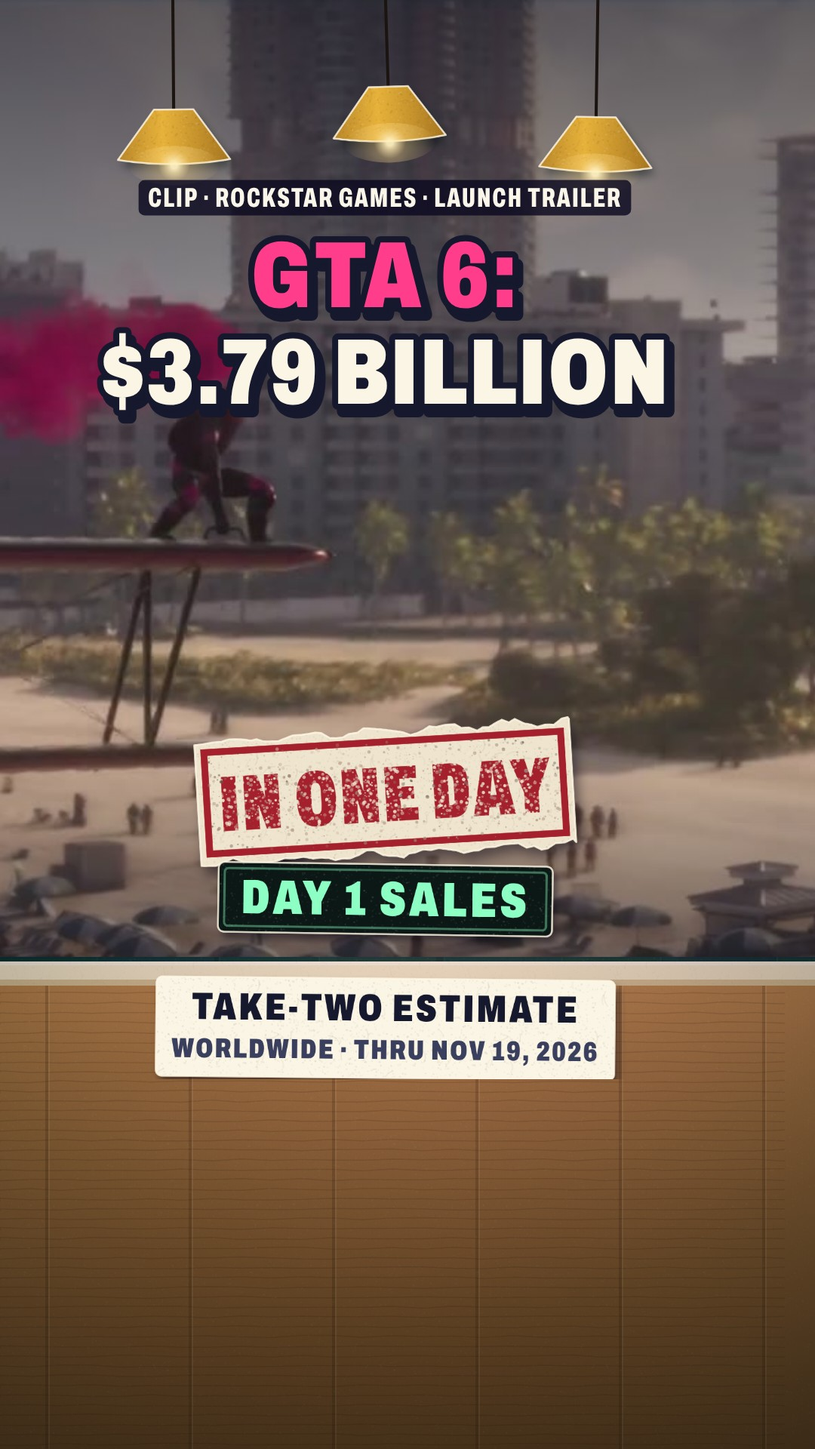
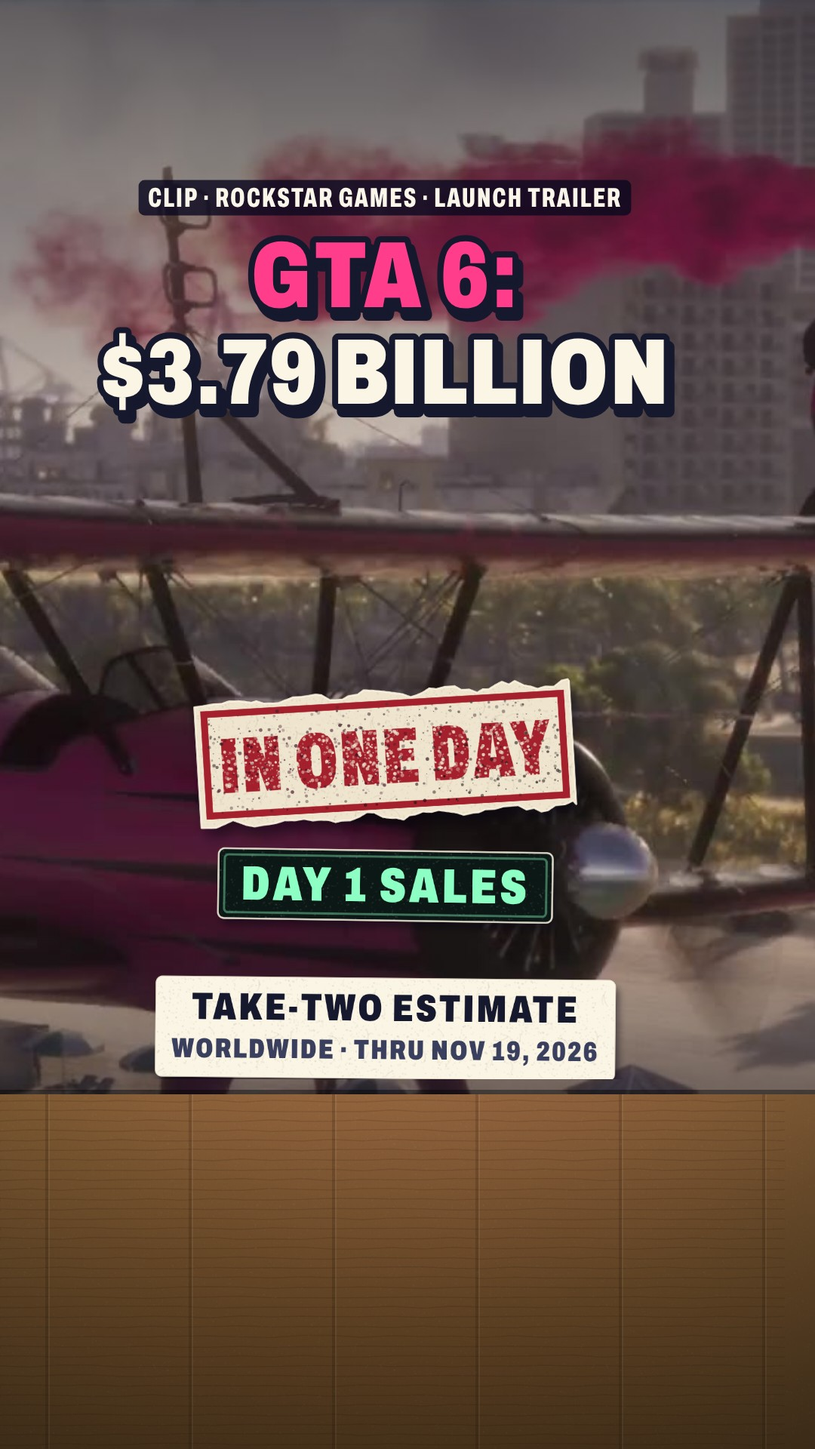
gta-daysales: jury round 2 fixes 1-7 (footage as the subject; voice unchanged)
- Receipts drawn to scale from the counter top at 1 px = $5M: GTA 5
  "$1B+ · 3 DAYS" 200 px, GTA 6 $3.79B 758 px shooting up in 0.6 s with the
  ka-ching and a drawer slam; NOT TO SCALE, PAST $3B, the pile, the day rows
  and the register displays leave the record beat (about five reads).
- Record line: quote plate lifted, counter props at 0.8, two launch-trailer
  clips of 1.65 s (dirt bike, Lucia) holding the wall.
- Footage behind est (marina) and the end question (Jason on the phone);
  $3.79B back on the end register; 56 px chips.
- Frame 0: footage plate covers the counter front to y 1450, lamps lift out
  over footage, plane at 0.75x then the balcony shot; IN ONE DAY at ~1.0 s.
- Blind swishes +10 dB with a slat rattle, ka-ching +7 dB.
Clip lint ok (49 %), bounds ok, readcheck ok, pace OK, Whisper 8/8 WER 0,
-13.8 LUFS, seam diff 1.90.

Claude-Session: https://claude.ai/code/session_0183o4NWx4W2jhhFZUootGpn

diff --git a/film/gta-daysales/film.js b/film/gta-daysales/film.js
@@ -501,7 +501,8 @@
     D.past3 = buildStamp(['PAST $3B'], 110, 232, OXI);
     D.nts = band('NOT TO SCALE', 250, 38, INK, CRM, 2);
     D.quote = chipPiece([['“BIGGEST ENTERTAINMENT', 66, CRM, 2], ['LAUNCH IN HISTORY”', 66, CRM, 2], ['— TAKE-TWO', 44, MUST, 3]], 800, INK, CRM, { lh: 78, pad: 36, ring: 'rgba(231,178,58,.55)' });
-    D.yes = band('YES · DAY ONE', 350, 50, CRM, INK, 2); D.no = band('NOT YET', 350, 50, CRM, INK, 2);
+    D.yes = band('YES · DAY ONE', 380, 56, CRM, INK, 2); D.no = band('NOT YET', 380, 56, CRM, INK, 2);
+    D.g5lab = chipPiece([['$1B+ · 3 DAYS', 48, CRM, 2]], 300, GREYD, CRM, { lh: 54, pad: 20, ring: 'rgba(255,255,255,.3)' });
   }
   function buildBackdrop() {
     var c = mk(W, H), g = c.getContext('2d'), r = mulberry(23);
@@ -623,7 +624,8 @@
      THE PROP LAYER (screen space, clipped to the rail). Beats in story order; later pieces land on top.
      ===================================================================================================== */
   function lamps(g, t) {
-    var nr = NOREC; NOREC = true;
+    var nr = NOREC, lv = wallVis(t); if (lv >= .999) return; NOREC = true;
+    g.save(); g.translate(0, -330 * eio(lv));
     [[230, 150, 0], [510, 120, 1.7], [790, 160, 3.1]].forEach(function (L) {
       var a = .028 * osc(t, 7, L[2]) + .012 * osc(t, 13, L[2] * 2);
       g.save(); g.translate(L[0], 0); g.rotate(a);
@@ -633,7 +635,7 @@
       g.fillStyle = gl; g.beginPath(); g.ellipse(0, L[1] + 74, 60, 26, 0, 0, TAU); g.fill();
       g.restore();
     });
-    NOREC = nr;
+    g.restore(); NOREC = nr;
   }
   function props(g, t) {
     var k, nr;
@@ -645,8 +647,12 @@
       var kg = seg(t, T.gDrop - .3, T.gDrop), fall = (1 - kg * kg) * 1400, go = eio(seg(t, T.endIn, T.endIn + .5));
       nr = NOREC; NOREC = nr || kg < 1 || go > 0;
       g.save(); g.translate(-700 * go, -fall);
-      var gd = t >= T.g1b ? D.g1b : t >= T.g800 ? D.g800 : null, gdk = t >= T.g1b ? kn(t, T.g1b, .1) : kn(t, T.g800, .1);
-      greyReg(g, GX, GS * kn(t, T.gDrop, .02), { disp: gd, dk: gdk, tape: function (q) { rowsUp(q, greyLt(t), 900, GROWS, G_SX, G_SY, G_TW, t); } });
+      var gd = t >= T.days3 ? null : t >= T.g800 ? D.g800 : null, gdk = kn(t, T.g800, .1);
+      greyReg(g, GX, GS * kn(t, T.gDrop, .02) * recS(t), { disp: gd, dk: gdk, tape: function (q) {
+        /* the day-by-day tape tears off when the to-scale receipt takes over (T.days3) */
+        var kt = seg(t, T.days3, T.days3 + .3); if (kt >= 1) return;
+        q.save(); q.globalAlpha *= 1 - kt; q.translate(0, -400 * kt * kt); rowsUp(q, greyLt(t), 900, GROWS, G_SX, G_SY, G_TW, t); q.restore();
+      } });
       g.restore(); NOREC = nr;
     }
     /* ---- ask: the dashed outline of a register to come, with a ? ---- */
@@ -669,11 +675,12 @@
     /* hook and loop: the register rises from behind the counter after the footage, and sinks back for the loop */
     if (rdy > 0) { g.beginPath(); g.rect(0, 0, W, CTOP + 24); g.clip(); }
     if (dim > 0) g.globalAlpha *= 1 - .45 * dim;
-    var dsw = T.ask + .3, dB = t >= dsw && t < T.endIn + .35, fl = Math.sin(TAU * 5 * t / DUR + .7) > .994 ? .4 : 1;
-    pinkReg(g, pr.x, pr.s, { disp: dB ? D.pdB : D.pdA, dk: dB ? kn(t, dsw, .12) : kn(t, T.endIn + .35, .12), da: fl, drawer: drawerAt(t), dy: rdy, plate: fin(t, T.ask + .4, .2) * (1 - seg(t, T.endIn, T.endIn + .2)), tape: function (q, layer) { pinkTape(q, t, layer); } });
+    var dsw = T.ask + .3, dB = t >= dsw, fl = Math.sin(TAU * 5 * t / DUR + .7) > .994 ? .4 : 1;
+    var dOff = t >= T.pour && t < T.endIn + .35;
+    pinkReg(g, pr.x, pr.s * recS(t), { disp: dOff ? null : dB ? D.pdB : D.pdA, dk: dB ? kn(t, dsw, .12) : kn(t, T.endIn + .35, .12), da: fl, drawer: drawerAt(t), dy: rdy, plate: fin(t, T.ask + .4, .2) * (1 - seg(t, T.endIn, T.endIn + .2)), tape: function (q, layer) { pinkTape(q, t, layer); } });
     g.restore();
     NOREC = nr;
-    loops(g, t);
+    strips(g, t);
     /* the torn est receipt flies off (ask) */
     if (t >= T.tear && t < T.tear + .6) {
       var kt = eio(seg(t, T.tear, T.tear + .55)), Lf = pinkLt(T.tear - .001);
@@ -683,18 +690,16 @@
       g.restore(); NOREC = nr;
     }
     /* ---- hook: IN ONE DAY stamp; TAKE-TWO ESTIMATE chip (hook, est) ---- */
-    stampOnP(g, D.oneday, 510, 1050, -.06, T.oneday, T.out1, t);
-    slapOn(g, D.d1s, 510, 1190, .015, T.d1s, T.out1, t);
+    stampOnP(g, D.oneday, 510, 1000, -.06, T.oneday, T.out1, t);
+    slapOn(g, D.d1s, 510, 1172, .015, T.d1s, T.out1, t);
     if (t < T.ask + .5) { slapOn(g, D.est0, 510, 1360, .01, T.est0, T.ask, t); if (t >= T.hl && t < T.ask) hilite(g, 290, 1314, 742, 1356, eo(seg(t, T.hl, T.hl + .35))); }
     /* ---- old: fine print under the grey register ---- */
     if (t < T.endIn + .5) slapOn(g, D.fine5, GX - 8, 1352, -.01, T.fine5, T.endIn, t);
-    slapOn(g, D.days3, 196, 664, -.05, T.days3, T.quote, t);
-    /* ---- fast: the GTA 6 receipt chip; PAST $3B ---- */
-    slapOn(g, D.day1, 790, 712, .03, T.day1, T.endIn, t);
-    stampOnP(g, D.past3, 770, 1334, -.07, T.past3, T.endIn, t);
-    slapOn(g, D.nts, 548, 1200, -.06, T.nts, T.endIn, t);
-    /* ---- rec: the quote plate ---- */
-    slapOn(g, D.quote, 510, 452, -.012, T.quote, T.endIn - .05, t, { tape: true });
+    /* ---- the to-scale receipts (1 px = $5M from the counter top): GTA 5 $1B+ in 3 days = 200 px, GTA 6 $3.79B = 758 px ---- */
+    slapOn(g, D.g5lab, 262, 1008, -.03, T.days3, T.endIn, t);
+    slapOn(g, D.day1, 790, 650, .03, T.day1, T.endIn, t);
+    /* ---- rec: the quote plate (lifted, so the footage holds the wall) ---- */
+    slapOn(g, D.quote, 510, 345, -.012, T.quote, T.endIn - .05, t, { tape: true });
     /* ---- end: equal chips; they peel off before the loop ---- */
     slapOn(g, D.yes, 296, 1368, -.02, T.vote, T.seamL, t, { od: .24 });
     slapOn(g, D.no, 724, 1368, .02, T.vote + .07, T.seamL, t, { od: .24 });
@@ -706,6 +711,7 @@
   function pinkTape(g, t, layer) {
     if (layer === 'back') return;
     if (t < T.pour) { rowsUp(g, pinkLt(t), t < T.tear ? capAt(t) : CAP0, ROWS, P_SX, P_SY, P_TW, t); return; }
+    if (t < T.endIn) return;
     if (t < T.endIn + .6) {
       /* the pour: shoots up out of the slot, folds over the top, runs down the counter front (the loops are drawn in screen space) */
       var u = t - T.pour, yA = -(CTOP - 640) / SMS, yE = (1336 - CTOP) / SMS;
@@ -739,6 +745,31 @@
     if (t < T.rise + .7) return 820 * (1 - cd(t, T.rise, 11));
     if (t >= T.sink) return 820 * eio(seg(t, T.sink, T.sink + .4));
     return 0;
+  }
+  /* counter props shrink to 0.8 on the record line so the launch-trailer run holds the wall */
+  function recS(t) { return 1 - .2 * eio(seg(t, T.rq - .15, T.rq + .25)) * (1 - eio(seg(t, T.endIn, T.endIn + .35))); }
+  var SBASE = CTOP - 8, S5X = 372, S6X = 614, SW = 112, PXM = 5;
+  /* a standing receipt strip: base on the counter top, height h px, print rows scrolling by 'flow' */
+  function strip(g, x, h, flow, seed, col) {
+    if (h <= 1) return;
+    var y0 = SBASE - h;
+    g.save();
+    g.fillStyle = 'rgba(0,10,10,.3)'; g.fillRect(x - SW / 2 + 7, y0 + 8, SW, h);
+    g.beginPath(); var jj = jag(seed, SW, 3); g.moveTo(x - SW / 2, SBASE); g.lineTo(x - SW / 2, y0 + 4); jj.forEach(function (p) { g.lineTo(x - SW / 2 + p[0], y0 + p[1] * .6); }); g.lineTo(x + SW / 2, SBASE); g.closePath();
+    g.fillStyle = PAPERW; g.fill(); g.clip();
+    g.fillStyle = 'rgba(0,0,0,.06)'; g.fillRect(x + SW / 2 - 10, y0, 10, h);
+    g.fillStyle = col || 'rgba(43,43,58,.32)';
+    var step = 26, off = flow % step;
+    for (var y = SBASE - 18 + off; y > y0 + 10; y -= step) { var i = Math.floor((y - off) / step), w1 = 30 + 50 * hash(i * 3 + seed); g.fillRect(x - SW / 2 + 14, y, w1, 7); g.fillRect(x - SW / 2 + 22 + w1, y, Math.max(10, SW - 50 - w1), 7); }
+    g.restore();
+  }
+  function strips(g, t) {
+    var nr = NOREC; NOREC = true;
+    var drop = eio(seg(t, T.endIn, T.endIn + .45));
+    g.save(); g.translate(0, 900 * drop);
+    if (t >= T.days3 && t < T.endIn + .5) strip(g, S5X, (1000 / PXM) * eo(seg(t, T.days3, T.days3 + .3)), 0, 5, 'rgba(63,61,76,.35)');
+    if (t >= T.pour && t < T.endIn + .5) { var u = t - T.pour; strip(g, S6X, (3790 / PXM) * eo(seg(u, 0, .6)), 900 * Math.min(u, .6) + 40 * Math.max(0, u - .6), 11); }
+    g.restore(); NOREC = nr;
   }
   function dimA(t) { return seg(t, T.slowIn, T.slowIn + .3) * (1 - seg(t, T.pour - .1, T.pour + .15)); }
   function stampOnP(g, pc, x, y, rot, tl, tout, t) { slapOn(g, pc, x, y, rot, tl, tout, t, { from: 1.6 }); }
@@ -819,20 +850,26 @@
     var up = w.up ? 1 - eio(seg(t, w.t0, w.t0 + w.up)) : 0, dn = w.dn ? eio(seg(t, w.t1 - w.dn, w.t1)) : 0;
     return WALLB * Math.max(up, dn);
   }
+  /* how much of the wall shows footage (0..1): the lamps lift out of frame while it does */
+  function wallVis(t) { var w = win(t); return w ? 1 - blindY(w, t) / WALLB : 0; }
+  /* hook and loop windows also cover the counter front (frame 0 is the game, down to y 1450) */
+  var HOOKB = 1450;
+  function plateBot(w, t) { if (w.open) return lerp(WALLB, HOOKB, eio(seg(t, w.t0, w.t0 + w.open))); return w.hook ? lerp(HOOKB, WALLB, blindY(w, t) / WALLB) : WALLB; }
   function footage(g, t) {
     var w = win(t); if (!w) return;
     var u = CLIP.active(t); if (!u) return;
-    var ya = blindY(w, t); if (ya >= WALLB - 1) return;
-    g.save(); g.beginPath(); g.rect(0, ya, W, WALLB - ya); g.clip();
+    var ya = blindY(w, t), yb = plateBot(w, t); if (ya >= yb - 1) return;
+    g.save(); g.beginPath(); g.rect(0, ya, W, yb - ya); g.clip();
     if (w.grey) g.filter = 'saturate(.22) contrast(1.06) brightness(.82)';
-    CLIP.draw(g, t, 0, 0, W, WALLB, u);
+    CLIP.draw(g, t, 0, 0, W, w.hook ? HOOKB : WALLB, u);
     g.filter = 'none';
     /* ink falls off the top (headline and captions read on it) and pools at the counter */
     var tg = g.createLinearGradient(0, 0, 0, 760); tg.addColorStop(0, 'rgba(8,10,24,' + (w.hook ? .62 : .5) + ')'); tg.addColorStop(1, 'rgba(8,10,24,0)'); g.fillStyle = tg; g.fillRect(0, 0, W, 760);
-    var bg2 = g.createLinearGradient(0, WALLB - 260, 0, WALLB); bg2.addColorStop(0, 'rgba(8,10,24,0)'); bg2.addColorStop(1, 'rgba(8,10,24,.45)'); g.fillStyle = bg2; g.fillRect(0, WALLB - 260, W, 260);
+    var bg2 = g.createLinearGradient(0, yb - 260, 0, yb); bg2.addColorStop(0, 'rgba(8,10,24,0)'); bg2.addColorStop(1, 'rgba(8,10,24,.45)'); g.fillStyle = bg2; g.fillRect(0, yb - 260, W, 260);
+    if (yb > WALLB + 2) { g.fillStyle = 'rgba(0,0,0,.4)'; g.fillRect(0, yb - 6, W, 6); }
     g.restore();
     /* the blind's bottom rail (only while it moves) */
-    if (ya > 1 && ya < WALLB - 1) {
+    if (ya > 1 && ya < yb - 1) {
       g.fillStyle = 'rgba(0,0,0,.35)'; g.fillRect(0, ya, W, 14);
       g.fillStyle = TEAL2; g.fillRect(0, ya - 22, W, 22); g.fillStyle = 'rgba(200,255,240,.22)'; g.fillRect(0, ya - 22, W, 3);
       g.fillStyle = MUST; rr(g, 498, ya - 6, 24, 40, 6); g.fill();
@@ -842,7 +879,8 @@
     var w = win(t); if (!w) return; var u = CLIP.active(t); if (!u) return;
     var ya = blindY(w, t), a = 1 - seg(ya, 120, 300); if (a <= 0) return;
     var src = CLIP.manifest().sources[CLIP.manifest().clips[u.clip].src];
-    chip(g, ('CLIP · ' + src.credit).toUpperCase(), 510, 262, { px: 36, a: a, bg: 'rgba(11,8,32,.82)', fg: CREAM, shadow: false, wt: 800, ls: 2 });
+    var cr = ('CLIP · ' + src.credit).toUpperCase(); if (w.short) cr = 'CLIP · ROCKSTAR GAMES';
+    chip(g, cr, w.cx || 510, w.cy || 262, { px: 36, a: a, bg: 'rgba(11,8,32,.82)', fg: CREAM, shadow: false, wt: 800, ls: 2 });
   }
 
   var NOISE, POSTERMODE = false;
@@ -874,7 +912,7 @@
     var o = [];
     function Tx(id, text, a, b) { if (t >= a && t < b) o.push({ id: id, text: text, x0: 0, y0: 0, x1: 0, y1: 0 }); }
     Tx('big', 'GTA 6: $3.79 BILLION', 0, T.out1); Tx('big', 'GTA 6: $3.79 BILLION', DUR - .1, DUR + 1);
-    Tx('d1s', 'DAY 1 SALES', T.d1s + .1, T.out1); Tx('dispA', 'DAY 1 SALES', T.rise + .4, T.ask + .3); Tx('dispA', 'DAY 1 SALES', T.endIn + .45, T.sink); Tx('dispB', '$3.79B', T.ask + .4, T.endIn + .35); Tx('nts', 'NOT TO SCALE', T.nts + .1, T.endIn);
+    Tx('d1s', 'DAY 1 SALES', T.d1s + .1, T.out1); Tx('dispA', 'DAY 1 SALES', T.rise + .4, T.ask + .3); Tx('dispB', '$3.79B', T.ask + .4, T.pour); Tx('dispB', '$3.79B', T.endIn + .45, T.sink + .3);
     Tx('oneday', 'IN ONE DAY', T.oneday + .1, T.out1);
     Tx('est0a', 'TAKE-TWO ESTIMATE', T.est0 + .1, T.ask); Tx('est0b', 'WORLDWIDE · THRU NOV 19, 2026', T.est0 + .1, T.ask);
     ROWS.forEach(function (r0, i) { if (r0.text) Tx('row' + i, r0.text, r0.tp + .25, T.tear); });
@@ -882,12 +920,11 @@
     Tx('n6', 'GTA 6', T.ask + .6, T.endIn);
     Tx('y13', 'SEPT 2013', T.y13 + .1, T.slowIn);
     Tx('g5', 'GTA 5', T.gDrop + .1, T.endIn);
-    Tx('g800', '$800M+', T.g800 + .1, T.g1b); Tx('g1b', '$1B+', T.g1b + .1, T.endIn);
+    Tx('g800', '$800M+', T.g800 + .1, T.days3);
     GROWS.forEach(function (r0, i) { if (r0.text) Tx('grow' + i, r0.text, r0.tp + .3, T.endIn); });
     Tx('fine1', 'TAKE-TWO ESTIMATE', T.fine5 + .1, T.endIn); Tx('fine2', 'EXCL. JAPAN & BRAZIL', T.fine5 + .1, T.endIn); Tx('fine3', '2013 DOLLARS', T.fine5 + .1, T.endIn);
-    Tx('days3', '3 DAYS', T.days3 + .1, T.endIn);
+    Tx('g5lab', '$1B+ · 3 DAYS', T.days3 + .1, T.endIn);
     Tx('day1', '1 DAY $3.79B TAKE-TWO ESTIMATE', T.day1 + .1, T.endIn);
-    Tx('past3', 'PAST $3B', T.past3 + .1, T.endIn);
     Tx('quote1', '“BIGGEST ENTERTAINMENT', T.quote + .1, T.endIn - .05); Tx('quote2', 'LAUNCH IN HISTORY”', T.quote + .1, T.endIn - .05); Tx('quote3', '— TAKE-TWO', T.quote + .1, T.endIn - .05);
     Tx('yes', 'YES · DAY ONE', T.vote + .1, T.seamL); Tx('no', 'NOT YET', T.vote + .17, T.seamL);
     return o;
@@ -909,9 +946,15 @@
     T.hookOff = lastw('hook') + .05; T.rise = T.hookOff + .1;
     T.drw = [[T.rise + .32, .8]];
     FW.push({ t0: 0, t1: T.hookOff + .36, up: 0, dn: .36, hook: true });
-    var plen = CLIP.manifest().clips.plane.frames / 30 - .04;
-    CLIP.use('plane', 0, T.hookOff + .36, { from: 0, speed: plen / (T.hookOff + .36), zoom: [1.34, 1.42], focus: [.42, .24], note: 'GTA 6 (Launch Trailer): stunt plane over the Vice beach under GTA 6: $3.79 BILLION, IN ONE DAY stamp, DAY 1 SALES chip' });
-    G('blind0', T.hookOff + .02, 'swish', .2, .7, { m: .03 });
+    var plen = CLIP.manifest().clips.plane.frames / 30 - .04, pcut = plen / .75;
+    CLIP.use('plane', 0, pcut, { from: 0, speed: .75, zoom: [1.17, 1.24], focus: [.42, .24], note: 'GTA 6 (Launch Trailer): stunt plane over the Vice beach under GTA 6: $3.79 BILLION, IN ONE DAY stamp, DAY 1 SALES chip' });
+    CLIP.use('balcony', pcut, T.hookOff + .36, { from: .15, speed: 1, zoom: [1.04, 1.08], focus: [.45, .4], note: 'GTA 6 (Launch Trailer): Jason and Lucia on the balcony under "One day." as the blind comes down' });
+    /* est: a GTA 6 shot behind the receipt print (the marina from the air) */
+    var e0 = start('est') + .35, e1 = e0 + 1.45;
+    FW.push({ t0: e0, t1: e1, up: .3, dn: .3 });
+    CLIP.use('marina', e0, e1, { from: 0, speed: (CLIP.manifest().clips.marina.frames / 30 - .05) / (e1 - e0), zoom: [1.06, 1.12], focus: [.5, .3], note: 'GTA 6 (Launch Trailer) behind the DAY ONE / RETAIL SALES receipt and the TAKE-TWO ESTIMATE card' });
+    G('blind0u', e0, 'swish', .25, .9, { m: .03 }); G('blind0d', e1 - .3, 'swish', .3, .8, { m: .03 });
+    G('blind0', T.hookOff + .02, 'swish', .2, 1, { m: .03 });
     EV.push({ t: T.oneday, type: 'ching', g: 1.3, id: 'ching1' });
     T.out1 = G('out1', T.ching0 + .45, 'swish', .3, .9, { m: .05 });
     /* est: the receipt prints its header as the words land */
@@ -935,7 +978,7 @@
     T.y13 = G('y13', at('old', '2013') + .05, 'slap', .3, 1.1, { m: .04 }); T.y13 = at('old', '2013') + .02;
     T.gDrop = G('gdrop', wend('old', '2013') + .1, 'thock', .3, 1.3, { m: .04 }); T.gDrop = Math.min(T.gDrop, at('old', 'gta'));
     /* the 2013 side on the wall (desaturated): GTA V's own trailer, Michael and Franklin at the pool */
-    var o0 = vadEndBefore(start('old'), lastw('ask')) + .03, o1 = at('old', 'made') - .5;
+    var o0 = vadEndBefore(start('old'), lastw('ask')) + .03, o1 = o0 + 1.48;
     FW.push({ t0: o0, t1: o1, up: .32, dn: .3, grey: true });
     CLIP.use('michael', o0, o1, { from: 0, speed: (CLIP.manifest().clips.michael.frames / 30 - .05) / (o1 - o0), zoom: [1.02, 1.1], focus: [.66, .45], note: 'GTA 5 (2013 trailer), greyed: SEPT 2013 card slams, the grey GTA 5 register drops in front of it' });
     G('blind1', o0, 'swish', .2, .6, { m: .03 }); G('blind1d', o1 - .3, 'swish', .25, .5, { m: .03 });
@@ -948,13 +991,12 @@
     G('gp1', after('old'), 'print', .4, .8, { dur: .22 });
     /* slow: the pink side dims; DAY 2 (no number: unknown); DAY 3; TOTAL $1B+ with the display on "days" */
     T.slowIn = start('slow') - .15;
-    var s0 = start('slow') - .3, s1 = at('slow', 'three') + .02;
+    var s0 = start('slow') - .3, s1 = s0 + 1.5;
     FW.push({ t0: s0, t1: s1, up: .32, dn: .3, grey: true });
-    CLIP.use('street', s0, s1, { from: 0, speed: (CLIP.manifest().clips.street.frames / 30 - .05) / (s1 - s0), zoom: [1.0, 1.08], focus: [.5, .45], note: 'GTA 5 (2013 trailer), greyed and slowed: the slow side while DAY 2 and DAY 3 print on the grey tape' });
+    CLIP.use('street', s0, s1, { from: 0, speed: (CLIP.manifest().clips.street.frames / 30 - .05) / (s1 - s0), zoom: [1.0, 1.08], focus: [.5, .45], note: 'GTA 5 (2013 trailer), greyed and slowed: the slow side under BUT GTA 5 HIT ONE BILLION while the grey tape ticks day by day' });
     G('blind2', s0, 'swish', .25, .6, { m: .03 }); G('blind2d', s1 - .3, 'swish', .25, .5, { m: .03 });
-    gfeed(at('slow', 'hit') - .02, 34, '-', 0, .25); gfeed(at('slow', 'hit') + .08, 70, 'DAY 2', 56, .3);
-    gfeed(at('slow', 'three') - .1, 34, '-', 0, .25); gfeed(at('slow', 'three'), 70, 'DAY 3', 56, .3);
-    gfeed(at('slow', 'days') - .02, 76, 'TOTAL $1B+', 56, .3);
+    gfeed(at('slow', 'hit') - .02, 34, '-', 0, .25); gfeed(at('slow', 'hit') + .08, 70, '-', 0, .3);
+    gfeed(at('slow', 'three') - .1, 34, '-', 0, .25); gfeed(at('slow', 'three'), 70, '-', 0, .3);
     T.days3 = G('days3', after('slow') - .05, 'stamp', .35, 1.1, { m: .05 }); T.g1b = T.days3;
     EV.push({ t: T.g800, type: 'slap', g: .9, id: 'g800' });
     EV.push({ t: at('slow', 'hit') + .08, type: 'print', g: .7, dur: .14, id: 'pd2' }); EV.push({ t: at('slow', 'three'), type: 'print', g: .7, dur: .14, id: 'pd3' });
@@ -962,21 +1004,20 @@
     T.pour = G('pour', start('fast') - .25, 'tear', .35, 1, { m: .04 });
     T.drw.push([T.pour, 1.0]);
     EV.push({ t: T.pour + .04, type: 'pour', g: .6, dur: 1.15, id: 'chatter' });
-    T.nts = T.pour + 1.3;
     T.day1 = at('fast', 'single') - .02;
-    T.past3 = G('past3', after('fast') + .02, 'stamp', .35, 1.1, { m: .05 });
-    EV.push({ t: T.past3, type: 'ching', g: 1.1, id: 'ching6' });
+    EV.push({ t: T.pour + .02, type: 'ching', g: 1.2, id: 'ching6' });
+    EV.push({ t: T.pour + .58, type: 'slam', g: 1, id: 'slam6' });
     /* rec: the quote plate drops (captions off; the plate is the line) */
     T.quote = G('quote', start('rec') - .4, 'slap', .3, 1.2, { m: .04 }); T.quote = Math.min(T.quote, start('rec') - .3);
     /* end: everything drops away; the pink register returns to the frame-0 place; YES / NOT YET (equal) */
     T.endIn = G('endIn', after('rec') - .05, 'tear', .3, 1, { m: .04 });
     /* the record line over a fast run of four launch-trailer shots, behind the pour and the quote plate */
-    var r0 = T.quote - .08, r1 = Math.min(r0 + 4.4, T.endIn + .08), rs = [['car', .05, [.4, .45], 'Lucia in the convertible', [1.2, 1.26]], ['bike', .25, [.55, .38], 'the dirt-bike jump over the tracks', [1.4, 1.46]], ['marina', .1, [.5, .5], 'the marina from the air', [1.1, 1.16]], ['balcony', .05, [.51, .4], 'Jason and Lucia on the balcony at sunset', [1.3, 1.36]]];
+    var r0 = T.quote - .08, r1 = Math.min(r0 + 3.3, T.endIn - .1), rs = [['bike', .1, [.53, .3], 'the dirt-bike jump over the tracks', [1.35, 1.42]], ['car', 0, [.395, .3], 'Lucia in the convertible', [1.2, 1.26]]];
     T.rq = r0;
-    FW.push({ t0: r0, t1: r1, up: .3, dn: .3 });
+    FW.push({ t0: r0, t1: r1, up: .3, dn: .3, cx: 275, cy: 556, short: true });
     rs.forEach(function (c, i) {
-      var a = lerp(r0, r1, i / 4), b = lerp(r0, r1, (i + 1) / 4);
-      CLIP.use(c[0], a, b, { from: c[1], speed: 1, zoom: c[4], focus: c[2], note: 'GTA 6 (Launch Trailer) run under the quote plate "BIGGEST ENTERTAINMENT LAUNCH IN HISTORY" · TAKE-TWO: ' + c[3] });
+      var a = lerp(r0, r1, i / 2), b = lerp(r0, r1, (i + 1) / 2), cl = CLIP.manifest().clips[c[0]].frames / 30 - .05 - c[1];
+      CLIP.use(c[0], a, b, { from: c[1], speed: Math.min(1, cl / (b - a)), zoom: c[4], focus: c[2], note: 'GTA 6 (Launch Trailer) run under the quote plate "BIGGEST ENTERTAINMENT LAUNCH IN HISTORY" · TAKE-TWO: ' + c[3] });
       if (i) G('cut' + i, a, 'tick', .12, .6, { m: .02 });
     });
     G('blind3', r0, 'swish', .2, .6, { m: .03 });
@@ -986,8 +1027,13 @@
     G('seam', DUR - .06, 'thock', .25, .8);
     /* loop: the register sinks, the blind goes up on frame 0's plane (held on its first frame) */
     T.sink = wend('end', 'one') + .06;
-    FW.push({ t0: T.sink, t1: DUR + .001, up: .4, dn: 0, hook: true });
-    CLIP.use('plane', T.sink, DUR + .001, { from: 0, freeze: 0, zoom: [1.3, 1.34], focus: [.42, .24], note: 'loop: the blind rises on the frame-0 plane shot as GTA 6: $3.79 BILLION drops back in' });
+    /* end: Jason on the phone behind the question, then the blind and the plate open to the frame-0 plane */
+    var q0 = r1 + .42;
+    FW.push({ t0: q0, t1: T.sink, up: .3, dn: 0 });
+    CLIP.use('phone', q0, T.sink, { from: 0, speed: 1, zoom: [1.1, 1.14], focus: [.57, .2], note: 'GTA 6 (Launch Trailer): Jason on the phone behind DID YOU BUY IT ON DAY ONE? and the YES · DAY ONE / NOT YET chips' });
+    G('blindq', q0, 'swish', .3, .8, { m: .03 });
+    FW.push({ t0: T.sink, t1: DUR + .001, up: 0, dn: 0, hook: true, open: .4 });
+    CLIP.use('plane', T.sink, DUR + .001, { from: 0, freeze: 0, zoom: [1.13, 1.17], focus: [.42, .24], note: 'loop: the blind rises on the frame-0 plane shot as GTA 6: $3.79 BILLION drops back in' });
     G('blind4', T.sink + .02, 'swish', .25, .6, { m: .03 });
     STRESS = [['est', 'day'], ['est', 'estimate'], ['ask', 'lot'], ['old', '2013'], ['old', '800'], ['slow', 'billion'], ['slow', 'three'], ['fast', 'three'], ['fast', 'single'], ['end', 'buy'], ['end', 'day']].map(function (p) { return at(p[0], p[1]); });
     EV.sort(function (a, b) { return a.t - b.t; });
@@ -1034,10 +1080,12 @@
     /* thermal printer: a fast train of head ticks over a thin feed buzz */
     function printer(t, g, dur) { dur = dur || .25; for (var u = 0; u < dur; u += .018) tick(t + u, (.55 + .3 * rnd()) * g, 3800 + 600 * rnd()); nband(t, t + dur, 2600, 2900, .05 * g, .04 * g, 3); }
     function tear(t, g) { nband(t, t + .16, 1600, 4800, .3 * g, .05 * g, .8); for (var j = 0; j < 6; j++) tick(t + j * .02, (1 - j * .1) * g, 2600 + j * 200); }
-    function swish(t, g) { nband(t, t + .2, 900, 3600, .2 * g, .03 * g, .8); }
-    var LEVEL = { stamp: 1, ching: 2.4, thock: 5, slap: 3, pin: 4, tick: 6, print: 4, tear: 3, pour: 3, swish: 3 };
+    function swish(t, g) { nband(t, t + .2, 900, 3600, .2 * g, .03 * g, .8); for (var j = 0; j < 5; j++) tick(t + .03 + j * .035, (.5 - j * .06) * g, 1500 + j * 150); }
+    /* the cash drawer slamming home: a low thump with a metal clack */
+    function slam(t, g) { thump(t, .7 * g, 120); boom(t, .4 * g, 95, 45, .22); tick(t, 1.3 * g, 2200); nband(t, t + .06, 1800, 900, .2 * g, .02 * g, 1.2); }
+    var LEVEL = { slam: 3, stamp: 1, ching: 2.4, thock: 5, slap: 3, pin: 4, tick: 6, print: 4, tear: 3, pour: 3, swish: 3 };
     var TRIM = window.SFX_TRIM || {};
-    var TYPE_DB = window.SFX_TYPE_DB || { stamp: -12, ching: -12, thock: -18, slap: -14, pin: -14, tick: -18, print: -18, tear: -15, pour: -20, swish: -16 };
+    var TYPE_DB = window.SFX_TYPE_DB || { slam: -6, stamp: -12, ching: -5, thock: -18, slap: -14, pin: -14, tick: -18, print: -18, tear: -15, pour: -20, swish: -6 };
     EV.forEach(function (e) {
       var g = (e.g == null ? 1 : e.g) * (LEVEL[e.type] || 1) * Math.pow(10, ((TRIM[e.id] || 0) + (TYPE_DB[e.type] || 0)) / 20);
       if (e.type === 'stamp') stamp(e.t, g);
@@ -1050,6 +1098,7 @@
       else if (e.type === 'pour') printer(e.t, g, e.dur);
       else if (e.type === 'tear') tear(e.t, g);
       else if (e.type === 'swish') swish(e.t, g);
+      else if (e.type === 'slam') slam(e.t, g);
     });
     /* no music: Isac adds a platform sound; the film ships voice + sound effects */
     var MUSIC = false;

diff --git a/film/gta-daysales/JURY.md b/film/gta-daysales/JURY.md
@@ -40,3 +40,39 @@ Previous Delta number Short (gta-streampeak) scored r1 7.06 / Truth 8.5. This on
 - The caption strips are torn-paper labels with one highlighted word, the same caption system as every other Delta film. That is fine, but with no tape spill the film reads as "two icons plus captions".
 - Symmetric triple pendant lamps on every frame: decoration with no job.
 - The `PAST $3B` grunge rubber stamp is the house stamp from gta-99 and gta-streampeak. A third film in a row with the same stamp texture is starting to feel like a template.
+
+## Round 2 (footage remake)
+Fresh jury, 2026-11-21. Scored without reading earlier rounds. Video: `out/gta-daysales-vo.mp4` (27.4 s, 1080x1920). pacecheck OK (motion 0-1 s 1.03, 0-3 s 1.57, no frozen stretches, 0 hard cuts). -13.9 LUFS integrated, true peak -2.7 dBFS, no black frames. Whisper heard every line with WER 0.00.
+
+**Sources re-read today.** Take-Two IR page (fetched, 395 KB): "day one retail sales* reached $3.79 billion … biggest entertainment launch in history", footnote "*based on company estimates through end of day November 19th worldwide". SEC 8-K Ex 99.1, 18 Sept 2013: "$800 Million Worldwide During First Day" (excluding Japan and Brazil). SEC 8-K Ex 99.1, 20 Sept 2013: "more than $1 billion during its first three days on sale, according to Company estimates". All match the script and the screen labels.
+
+**SAFE-EDIT checklist.** Every clip is under 5 s, muted, and credited on screen (`CLIP · ROCKSTAR GAMES · …`). Footage is about 44 % of the runtime. No rumour, leak or ending, no trailer music, no logo or key-art frames, and every number is sourced. Clean.
+**Hook rule.** Frame 0 shows `GTA 6: $3.79 BILLION` (4 words) over the Launch Trailer stunt plane. The `IN ONE DAY` stamp and the `TAKE-TWO ESTIMATE` card are on screen by 2.0 s but not at 1.0 s. Passes, so no cap.
+
+| Criterion | Score | Why |
+|---|---|---|
+| Hook | 7.0 | It has a real GTA 6 shot, a 4-word number and pink smoke behind the type, and it moves (1.57). Against it: the slowed 0.54x footage is soft. The lamps hang over the video. The bottom 40 % of frame 0 (y 1270-1920) is bare wooden counter. The payoff stamp sits low at y ~1050, after 1.0 s. |
+| Retention | 7.0 | There is no frozen stretch, and the new beats (2013 at 8.7, 3 DAYS at 14.5, the pour at 18, the montage at 21.4) land every 3-5 s. But 3.3-8.7 s is 5.4 s of teal wall with a receipt printing. It is the longest stretch without footage, it falls right after the hook, and nothing new happens on screen in it apart from the ? at 7.5. |
+| Clarity | 6.5 | The idea is plain: 3.79B in one day against GTA 5's 1B in three. But 20-25 s stacks about 15 labels at once: 3 DAYS, DAY1/$800M+/DAY2/DAY3/TOTAL $1B+, $1B+, GTA 5, NOT TO SCALE, 1 DAY $3.79B TAKE-TWO ESTIMATE, the $3.79B display, GTA6, PAST $3B, the fine-print card, the quote plate and the clip credit. That is not one read at a time. $3.79B appears twice side by side. |
+| Truth | 9.0 | Every claim is attributed and matches the primary sources. "Over", "$800M+", "$1B+", "EXCL. JAPAN & BRAZIL", "2013 DOLLARS" and the quote marks are all present. Two small nits: "a single day" in the voice is tighter than the release's window ("through end of day Nov 19 worldwide"), which the screen card does show; and the bars are drawn NOT TO SCALE (labelled, so honest). |
+| Motion and design craft | 6.0 | The cut-paper register set is likeable and the roller-blind transitions are a good idea. Against it: the counter front y 1270-1430 is empty on the hook (0-1.5 s) and the end (25-26.6 s), a repeat of LESSONS "leave y 1000-1430 empty" (-1). The 21.4-24.9 montage is almost entirely covered by the collage, so four good clips read as noise. The lamps sit on top of the footage. The end register shows `DAY 1 SALES`, not the number. |
+| Voice and sound | 7.0 | The hook is in the first words, the pace is tight, there is no music, and Whisper is clean. Hits are there, but the blind swish in the 3.2 s gap peaks at -19 dBFS (LESSONS: Delta hits should reach about -10). The register ka-ching does not stand out. |
+| Loop and ending | 8.0 | The last frame is frame 0 (plane plus headline), and "…on day one?" runs into "GTA 6. $3.79 billion. One day." Strong. Docked because the end beat (25-26.6 s) is the plainest frame in the film. |
+| Shareability | 6.0 | The DM image was meant to be the receipt that pours off the counter. The tape is only about 1.3x the height of the GTA 5 receipt, tagged NOT TO SCALE, and piles neatly on the counter, so the frame argues against its own number. |
+
+**Overall 7.0** (56.5 / 8 = 7.06, not rounded up). **Truth 9.0. PASS the gate (7.0+, Truth 8.5+), but only just: fix then post.** That is below the last two Delta passes (7.1 and 7.2).
+
+### Fixes, ranked by impact
+1. **Wow: 18.0-21.4 s, the pour. Draw it to scale and drop NOT TO SCALE.** Use 1 px = $5M. The GTA 5 day-one receipt becomes 160 px, the GTA 5 three-day total ($1B+) 200 px, and the GTA 6 tape 758 px. Shoot it up from the counter (y 1270) to about y 510, past the caption, in 0.6 s with the ka-ching at -10 dBFS, then hold 0.7 s. Label the GTA 5 receipt `$1B+ · 3 DAYS` (a floor, so the ratio is honest at most). That is the frame people will send.
+2. **20.5-25 s, too many labels. Cut to five reads.** Remove the DAY1/DAY2/DAY3 lines once the `3 DAYS` chip is up. Remove the register's `$3.79B` display (the `1 DAY $3.79B` tag carries it). Remove `PAST $3B` (the voice already says it at 18.6). Shrink the fine-print card to 0 opacity once the quote plate lands, and put it back for the last 0.3 s, or keep it at 36 px and move it under the GTA 5 register only.
+3. **21.4-24.9 s, the hidden montage.** Lift the quote plate to y 200-420 and push the counter props down and smaller (0.8 scale) for these 3.5 s, so the car, bike, marina and balcony shots show at least 60 % of the wall. Otherwise drop the montage to two clips at 1.7 s each.
+4. **3.3-8.7 s, the dead middle.** Bring a GTA 6 clip back behind the `est` receipt print, for example 1.5 s of the car clip at 4.5-6.0 s behind a half-raised blind. Or punch the receipt 1.0 to 1.08 on "own estimate" at 5.9 s. Nothing more than 3 s should go by without footage or a new object.
+5. **0.0-1.5 s, frame 0.** Fill y 1270-1430. Bring the `IN ONE DAY` stamp in at 0.9 s (now about 1.5 s) and set it on the counter edge at y 1300, not over the beach. Hide the three lamps while the wall shows footage (they cut the skyline at y 60-110 on frame 0). Run the plane at 0.75x, not 0.54x, so it stays sharp.
+6. **25.0-26.6 s, end beat.** Keep footage behind the question, for example the balcony clip at 50 % behind the blind. Put `$3.79B` back on the register display (it now says `DAY 1 SALES`), as the brief planned. Bring the chips up to 48 px.
+7. **Sound.** Lift the blind swishes and the hook ka-ching to about -10 dBFS in voice gaps (now -19 at 3.2 s). Add a drawer slam at 18.6 s on "single day".
+8. **Voice wording (optional Truth polish).** Change "in a single day" (`fast`) to "on day one", so the voice matches the release's own term and the `DAY 1` labels. That needs a re-voice of one line, so it is not a blocker.
+
+### Generic or AI-made tells
+- The same three hanging lamps and centred register on every beat make it look like a template. The set never changes angle or scale.
+- Ransom-note tape captions on every line mirror the voice word for word. That works sound-off, but it is the house default, not a choice made for this film.
+- The footage reads as wallpaper behind a cardboard set, not as the subject. The best Delta frames are the ones where the game shot holds the wall alone (0-1.5 s, 27 s).

diff --git a/film/gta-daysales/BRIEF.md b/film/gta-daysales/BRIEF.md
@@ -94,16 +94,18 @@ Why: Isac (2026-11-21) said the first cut ignored what Delta has learned. `delta
 
 | Clip | Source (cache key, verdict) | Source in-out (s) | On screen (s) | What our graphics say over it |
 |---|---|---|---|---|
-| plane | GTA VI Launch Trailer, Rockstar Games' X post x.com/RockstarGames/status/2110717537964953810 (`twitter-2110704990339678208`, OFFICIAL: uploader_id RockstarGames) | 54.52-56.30 | 0.00-3.29 (slowed 0.54x) and 26.69-27.40 (held on its first frame, the loop) | frame 0: `GTA 6: $3.79 BILLION`, `IN ONE DAY` stamp, `DAY 1 SALES`, `TAKE-TWO ESTIMATE` |
-| michael | GTA V Official Trailer (2013), Rockstar's CDN videos-rockstargames-com.akamaized.net/v4/a8k183c8 (`generic-v4-a8k183c8-flv-en-us-720p-mp4`, OFFICIAL: Rockstar host) | 7.76-9.32 | ≈8.72-11.01, greyed | `SEPT 2013` card, the grey GTA 5 register drops in front, caption "In 2013, GTA 5 made over $800 million" |
-| street | same GTA V trailer | 46.86-48.40 | ≈14.45-16.71, greyed and slowed | "But GTA 5 hit one billion in three days", DAY 2 / DAY 3 print on the grey tape |
-| car | GTA VI Launch Trailer (as above) | 25.74-27.06 | ≈21.37-22.24 | quote plate `"BIGGEST ENTERTAINMENT LAUNCH IN HISTORY" · TAKE-TWO`, the pour, `1 DAY $3.79B TAKE-TWO ESTIMATE` |
-| bike | GTA VI Launch Trailer | 48.55-50.35 | ≈22.24-23.11 | same |
-| marina | GTA VI Launch Trailer | 4.40-6.00 | ≈23.11-23.99 | same |
-| balcony | GTA VI Launch Trailer | 66.45-67.78 | ≈23.99-24.86 | same |
+| plane | GTA VI Launch Trailer, Rockstar Games' X post x.com/RockstarGames/status/2110717537964953810 (`twitter-2110704990339678208`, OFFICIAL: uploader_id RockstarGames) | 54.52-56.30 | 0.00-2.31 (0.75x) and 26.69-27.40 (held on its first frame, the loop) | frame 0: `GTA 6: $3.79 BILLION`, `IN ONE DAY` stamp, `DAY 1 SALES`, `TAKE-TWO ESTIMATE` |
+| balcony | GTA VI Launch Trailer | 66.45-67.78 | 2.31-3.29 | "One day." as the blind comes down |
+| marina | GTA VI Launch Trailer | 4.40-6.00 | ≈4.40-5.85 | the `DAY ONE / RETAIL SALES` receipt, `TAKE-TWO ESTIMATE` card |
+| michael | GTA V Official Trailer (2013), Rockstar's CDN videos-rockstargames-com.akamaized.net/v4/a8k183c8 (`generic-v4-a8k183c8-flv-en-us-720p-mp4`, OFFICIAL: Rockstar host) | 7.76-9.32 | ≈8.72-10.20, greyed | `SEPT 2013` card, the grey GTA 5 register drops in |
+| street | same GTA V trailer | 46.86-48.40 | ≈14.45-15.95, greyed | "But GTA 5 hit one billion in three days" |
+| bike | GTA VI Launch Trailer | 48.55-50.35 | ≈21.37-23.02 | quote plate `"BIGGEST ENTERTAINMENT LAUNCH IN HISTORY" · TAKE-TWO`, the to-scale receipts |
+| car | GTA VI Launch Trailer | 25.74-27.06 | ≈23.02-24.67 | same |
+| phone | GTA VI Launch Trailer | 11.36-13.38 | ≈25.09-26.69 | "Did you buy it on day one?", `$3.79B` on the register, `YES · DAY ONE` / `NOT YET` |
 
-Exact on-screen times are written by `node render.mjs clips` to `out/clips-used.json` (they follow the voice's word times). Rules held (clipkit lint): every use under 5 s, a note on every use, no unbroken footage stretch over 5 s (longest run 3.5 s), Rockstar footage about 44 % of the runtime (cap 50 %), muted, no clip range used by another Delta film (the Launch Trailer and the GTA V 2013 Official Trailer were unused; gta-sametrailer used the 2011 GTA V trailer, gta-thingstodo the Extended Look). No Rockstar logo, title card or key art frames (all cuts sit inside shots, away from the logo cards at 22-26 s and 76-90 s). Description closing line: "Trailer clips: Rockstar Games (GTA VI Launch Trailer, GTA V Official Trailer), used for commentary. Not affiliated with Rockstar Games or Take-Two." On screen while a clip plays: `CLIP · ROCKSTAR GAMES · LAUNCH TRAILER` / `CLIP · ROCKSTAR GAMES · GTA V TRAILER (2013)`.
+Exact on-screen times are written by `node render.mjs clips` to `out/clips-used.json` (they follow the voice's word times). Rules held (clipkit lint): every use under 5 s, a note on every use, no unbroken footage stretch over 5 s (longest run under 3.5 s), Rockstar footage about 49 % of the runtime (cap 50 %), muted, no clip range used by another Delta film (the Launch Trailer and the GTA V 2013 Official Trailer were unused; gta-sametrailer used the 2011 GTA V trailer, gta-thingstodo the Extended Look). No Rockstar logo, title card or key art frames (all cuts sit inside shots, away from the logo cards at 22-26 s and 76-90 s). Description closing line: "Trailer clips: Rockstar Games (GTA VI Launch Trailer, GTA V Official Trailer), used for commentary. Not affiliated with Rockstar Games or Take-Two." On screen while a clip plays: `CLIP · ROCKSTAR GAMES · LAUNCH TRAILER` / `CLIP · ROCKSTAR GAMES · GTA V TRAILER (2013)`.
 
 ## Log
 - 2026-11-21: researched and scripted (video-researcher). Verified $3.79B day one retail sales, footnote "company estimates through end of day November 19th worldwide" and "biggest entertainment launch in history" at take2games.com; GTA V "more than $800 million" first day (Sept 18 2013, excl. Japan and Brazil) and "more than $1 billion during its first three days" (Sept 20 2013) at the SEC 8-K exhibits. Chose GTA 5 (same company, same measure) over a movie comparison. No ratio voiced; "one day", never "24 hours".
 - 2026-11-21: picture remake with official footage (Isac: use what Delta learned). Voice, script, facts and labels unchanged; the wall became a video wall with 7 muted Rockstar clips (Launch Trailer, GTA V 2013 Official Trailer) cut with clipkit, behind the hook, the two 2013 beats and the record line. See §7.
+- 2026-11-21: jury round 2 fixes 1-7 (voice unchanged). The receipts are now drawn to scale from the counter top at 1 px = $5M (GTA 5 `$1B+ · 3 DAYS` = 200 px, GTA 6 $3.79B = 758 px), so `NOT TO SCALE` is gone; `PAST $3B`, the day-by-day rows, `3 DAYS` chip and the register displays leave the record beat (about five reads); the record run is two clips under a lifted quote plate with the counter props at 0.8; footage added behind `est` and the end question; frame 0 covers the counter front, lamps lift out over footage, plane at 0.75x; the end register shows `$3.79B`; louder blind swishes and ka-ching, drawer slam as the GTA 6 receipt lands. GTA 5 is drawn at its floor ($1B; Take-Two said "more than"), so the strip pair shows the largest possible gap, not an exact ratio; the `+` on `$1B+` says so, and no ratio is voiced or written.

diff --git a/film/gta-daysales/TREATMENT.md b/film/gta-daysales/TREATMENT.md
@@ -42,3 +42,9 @@ Footage is the Delta default now (delta/RUN.md, VIDEO-PLAN §2). The voice and e
 | slow 14.5-16.7 s | GTA V 2013 trailer, street chase with the helicopter, greyed and slowed | The slow grey stretch the jury called dead gets motion while it stays grey and quiet. |
 | rec 21.4-24.9 s | four Launch Trailer shots, hard cuts ~0.87 s each (Lucia in the convertible, the dirt-bike jump, the marina, the balcony) | The payoff over a fast run of the new game, behind the pour and the quote plate. |
 | end/loop 26.7-27.4 s | the blind goes up on the plane's first frame as the register sinks | Last frame = frame 0. |
+
+## Jury round 2 (2026-11-21): footage as the subject
+- The pour became two **to-scale receipts standing on the counter** (1 px = $5M from the counter top): GTA 5 `$1B+ · 3 DAYS` 200 px, GTA 6 758 px shooting up in 0.6 s with the ka-ching and a drawer slam. `NOT TO SCALE`, `PAST $3B`, the receipt pile and the day-by-day rows are gone.
+- The record line: quote plate lifted to y ≈210-480, counter props at 0.8, two launch-trailer clips of 1.65 s (dirt bike, Lucia in the convertible), so the game holds most of the wall.
+- New footage beats: the marina behind the `est` receipt (4.4-5.85 s) and Jason on the phone behind the end question; the end register shows `$3.79B` again.
+- Frame 0: the footage plate runs down over the counter front to y 1450; `IN ONE DAY` lands at ~1.0 s at y 1000; the lamps lift out of frame whenever the wall shows footage; plane at 0.75x, then the balcony shot under "One day."
